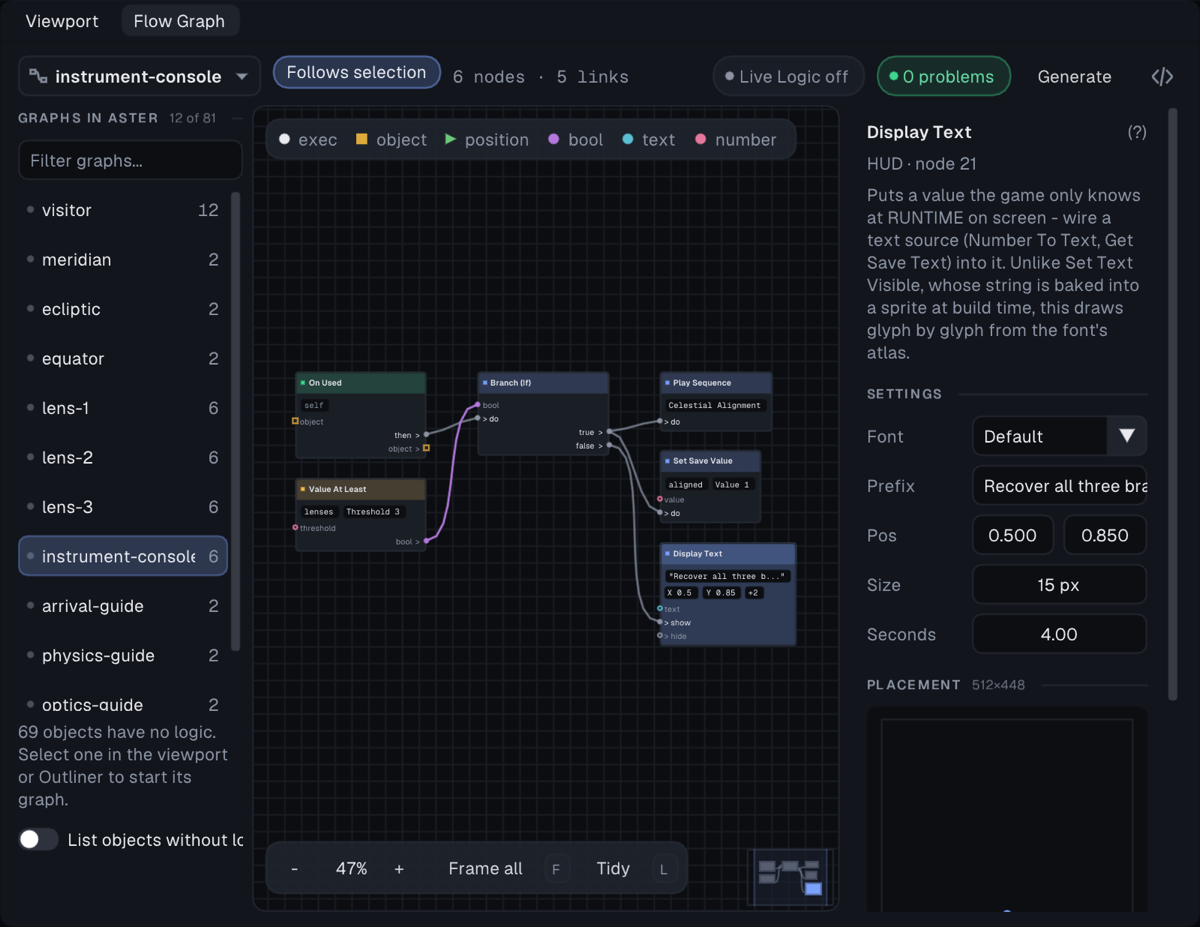
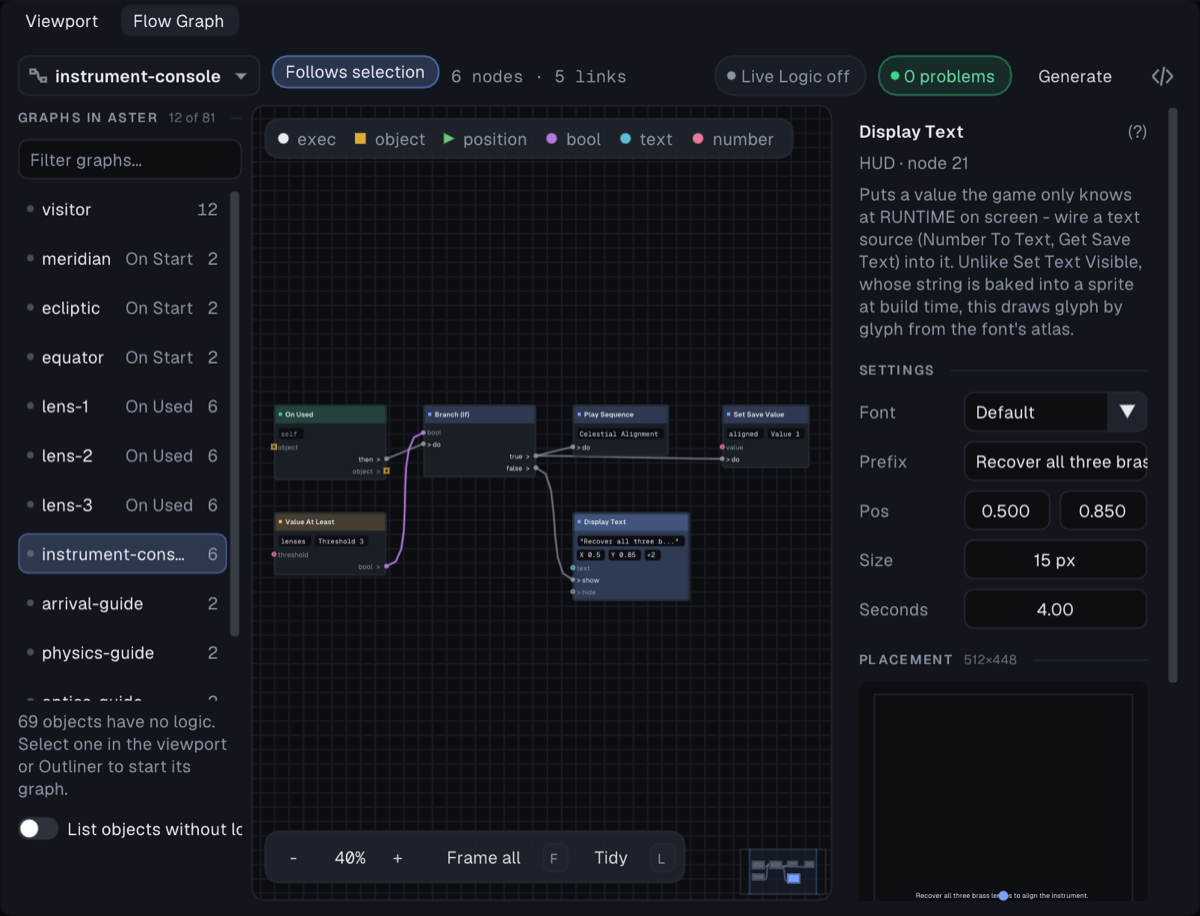
Flow Graph: graph list no longer crushed; names end in "..." instead of being cut
Divergence (FlowGraph-Edit artboard): the "Graphs in Aster" list showed
"instrument  On Used" / "arrival-guic On Used" - the name was hard-clipped
by the trigger column. The list and inspector widths were clamped and the
clamp written back, so the few-px-wide first frames of a docked window
pinned both columns to their minimum (150 / 220 px) for the session.

Fix: clamp per frame without storing it (splitters still store a drag);
the list then the inspector give way when the canvas would get under half
the window, before the list folds. The trigger is drawn only when the whole
name fits beside it; the name is ellipsized otherwise. The Display Text
placement caption wraps (it ran off the inspector's edge).

Verified: --ui-script on a copy of examples/showcase, docked (1500x900)
and undocked 1280x800: shots of instrument-console with Display Text
selected and the Space palette open. docs/img/flow-graph-window.png retaken.

diff --git a/src/flowgraph_ui.cpp b/src/flowgraph_ui.cpp
@@ -743,16 +743,30 @@ void App::drawFlowGraphWindow() {
     const float thick = ImMax(6.0f, ImGui::GetFontSize() * 0.45f);  // the toolkit splitter's
     const float bodyH = ImMax(1.0f, ImGui::GetContentRegionAvail().y);
     const float totalW = ImGui::GetContentRegionAvail().x;
-    if (flowListW_ <= 0.0f) flowListW_ = scaled(190.0f);
+    if (flowListW_ <= 0.0f) flowListW_ = scaled(220.0f);
     if (flowInspW_ <= 0.0f) flowInspW_ = scaled(270.0f);
-    flowInspW_ = ImClamp(flowInspW_, scaled(220.0f), ImMax(scaled(220.0f), totalW * 0.4f));
-    flowListW_ = ImClamp(flowListW_, scaled(150.0f), ImMax(scaled(150.0f), totalW * 0.3f));
-    // The canvas comes first: the graph list folds away before it gets cramped.
-    const bool showList = totalW - flowListW_ - flowInspW_ - 2.0f * thick >= scaled(300.0f);
+    // Clamp what this frame draws, not the stored widths: a docked window's
+    // first frames are only a few px wide, and writing the clamp back crushed
+    // both columns to their minimum for good (names cut to "instrument").
+    float inspW = ImClamp(flowInspW_, scaled(220.0f), ImMax(scaled(220.0f), totalW * 0.4f));
+    float listW = ImClamp(flowListW_, scaled(150.0f), ImMax(scaled(150.0f), totalW * 0.3f));
+    // The canvas comes first: when it would get under half the window (or
+    // 300 px) the list and then the inspector give way down to their minimums,
+    // and only under 300 px does the graph list fold away.
+    {
+        float short_ = ImMax(scaled(300.0f), totalW * 0.5f) - (totalW - listW - inspW - 2.0f * thick);
+        if (short_ > 0.0f) {
+            const float l = ImMin(short_, listW - scaled(150.0f));
+            listW -= l;
+            short_ -= l;
+        }
+        if (short_ > 0.0f) inspW -= ImMin(short_, inspW - scaled(220.0f));
+    }
+    const bool showList = totalW - listW - inspW - 2.0f * thick >= scaled(300.0f);
 
     // --- left: the scene's graphs ----------------------------------------------
     if (showList) {
-        ImGui::BeginChild("##fg_graphs", ImVec2(flowListW_, bodyH));
+        ImGui::BeginChild("##fg_graphs", ImVec2(listW, bodyH));
         {
             char cnt[32];
             std::snprintf(cnt, sizeof(cnt), "%d of %d", (int)graphRows.size(), objCount);
@@ -819,17 +833,24 @@ void App::drawFlowGraphWindow() {
                 }
                 if (!sub.empty()) {
                     const float sw = ImGui::CalcTextSize(sub.c_str()).x;
-                    if (rx - sw > p.x + fs * 5.0f) {
+                    // The trigger yields to the name: "instrument-console" over
+                    // "instrument  On Used".
+                    const float nameEnd = p.x + fs * 1.1f + ImGui::CalcTextSize(o.name.c_str()).x;
+                    if (rx - sw - fs * 0.5f >= nameEnd) {
                         rx -= sw;
                         dl->AddText(ImVec2(rx, p.y + (h - ImGui::GetTextLineHeight()) * 0.5f),
                                     ImGui::GetColorU32(sem.textDim), sub.c_str());
                         rx -= fs * 0.5f;
                     }
                 }
-                dl->PushClipRect(p, ImVec2(rx, q.y), true);
-                dl->AddText(ImVec2(p.x + fs * 1.1f, p.y + (h - ImGui::GetTextLineHeight()) * 0.5f),
-                            ImGui::GetColorU32(dim ? sem.textDim : sem.text), o.name.c_str());
-                dl->PopClipRect();
+                {
+                    const float ty = p.y + (h - ImGui::GetTextLineHeight()) * 0.5f;
+                    ImGui::PushStyleColor(ImGuiCol_Text, dim ? sem.textDim : sem.text);
+                    ImGui::RenderTextEllipsis(dl, ImVec2(p.x + fs * 1.1f, ty),
+                                              ImVec2(rx, ty + ImGui::GetTextLineHeight()), rx,
+                                              o.name.c_str(), nullptr, nullptr);
+                    ImGui::PopStyleColor();
+                }
             };
             for (const GraphRow& r : graphRows) {
                 if (!matches(project_.objects()[r.index].name)) continue;
@@ -867,10 +888,11 @@ void App::drawFlowGraphWindow() {
         }
         ImGui::EndChild();
         ImGui::SameLine(0.0f, 0.0f);
-        ui::VSplitter("##fg_split_list", &flowListW_, scaled(150.0f), scaled(420.0f), bodyH);
+        if (ui::VSplitter("##fg_split_list", &listW, scaled(150.0f), scaled(420.0f), bodyH))
+            flowListW_ = listW;
     }
-    const float canvasW = ImMax(scaled(200.0f), totalW - (showList ? flowListW_ + thick : 0.0f) -
-                                                     flowInspW_ - thick);
+    const float canvasW = ImMax(scaled(200.0f), totalW - (showList ? listW + thick : 0.0f) -
+                                                     inspW - thick);
     std::vector<int> selNodes;  // filled after the canvas draws; read by the inspector
 
     // --- centre: the canvas ------------------------------------------------------
@@ -3621,7 +3643,7 @@ void App::drawFlowGraphWindow() {
     {
         float cw = canvasW;
         ui::VSplitter("##fg_split_insp", &cw, scaled(200.0f), scaled(220.0f), bodyH);
-        flowInspW_ += canvasW - cw;  // dragging the strip right narrows the inspector
+        if (cw != canvasW) flowInspW_ = inspW + (canvasW - cw);  // dragging right narrows the inspector
     }
     ImGui::BeginChild("##fg_inspector", ImVec2(0, bodyH), ImGuiChildFlags_AlwaysUseWindowPadding);
     {
@@ -3848,8 +3870,15 @@ void App::drawFlowGraphWindow() {
                             ImGui::GetColorU32(sem.text), txt.c_str());
                 dl->AddCircleFilled(c, fs * 0.22f, ImGui::GetColorU32(sem.accent));
                 dl->PopClipRect();
-                ImGui::TextDisabled("Centred on %.2f, %.2f \xc2\xb7 %.0f px \xc2\xb7 %s", n.num[0], n.num[1],
-                                    n.num[2], n.num[3] > 0.0f ? "hides after a while" : "stays");
+                // Wrapped: at the inspector's default width the line ran off its edge.
+                ImGui::PushStyleColor(ImGuiCol_Text, sem.textDim);
+                if (n.num[3] > 0.0f)
+                    ImGui::TextWrapped("Centred on %.2f, %.2f \xc2\xb7 %.0f px \xc2\xb7 hides after %.1f s",
+                                       n.num[0], n.num[1], n.num[2], n.num[3]);
+                else
+                    ImGui::TextWrapped("Centred on %.2f, %.2f \xc2\xb7 %.0f px \xc2\xb7 stays", n.num[0],
+                                       n.num[1], n.num[2]);
+                ImGui::PopStyleColor();
             }
 
             // Wiring, both ways; each end is a link to that node.

diff --git a/docs/flow-graph.md b/docs/flow-graph.md
@@ -18,7 +18,9 @@ Every graph belongs to one object; the window always shows one of them.
 - **Graphs in** *scene* (left column, when the window is wide enough)
   lists only objects that have logic, with their trigger and node count, and a
   filter. *List objects without logic* adds the rest. Opening a graph frames
-  all of its nodes.
+  all of its nodes. A long name keeps its place and ends in "..."; the
+  trigger steps aside for it. When the window is narrow the list and the
+  node inspector give way before the canvas does.
 
 The header also counts nodes and links and carries two status pills:
 
